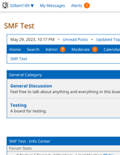
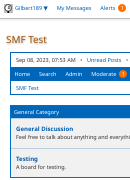
Update the thumbnail
also some minor style fix
(oops wrong branch)

diff --git a/css/index.css b/css/index.css
@@ -2694,7 +2694,7 @@ form#reported_posts .windowbg hr {
 	 float: left;
 }
 #pick_theme .selected {
-	 background: #cddbe6;
+	 background: #60a0d120; /* opacity! */
 }
 /* Signature preview */
 #preview_signature,
